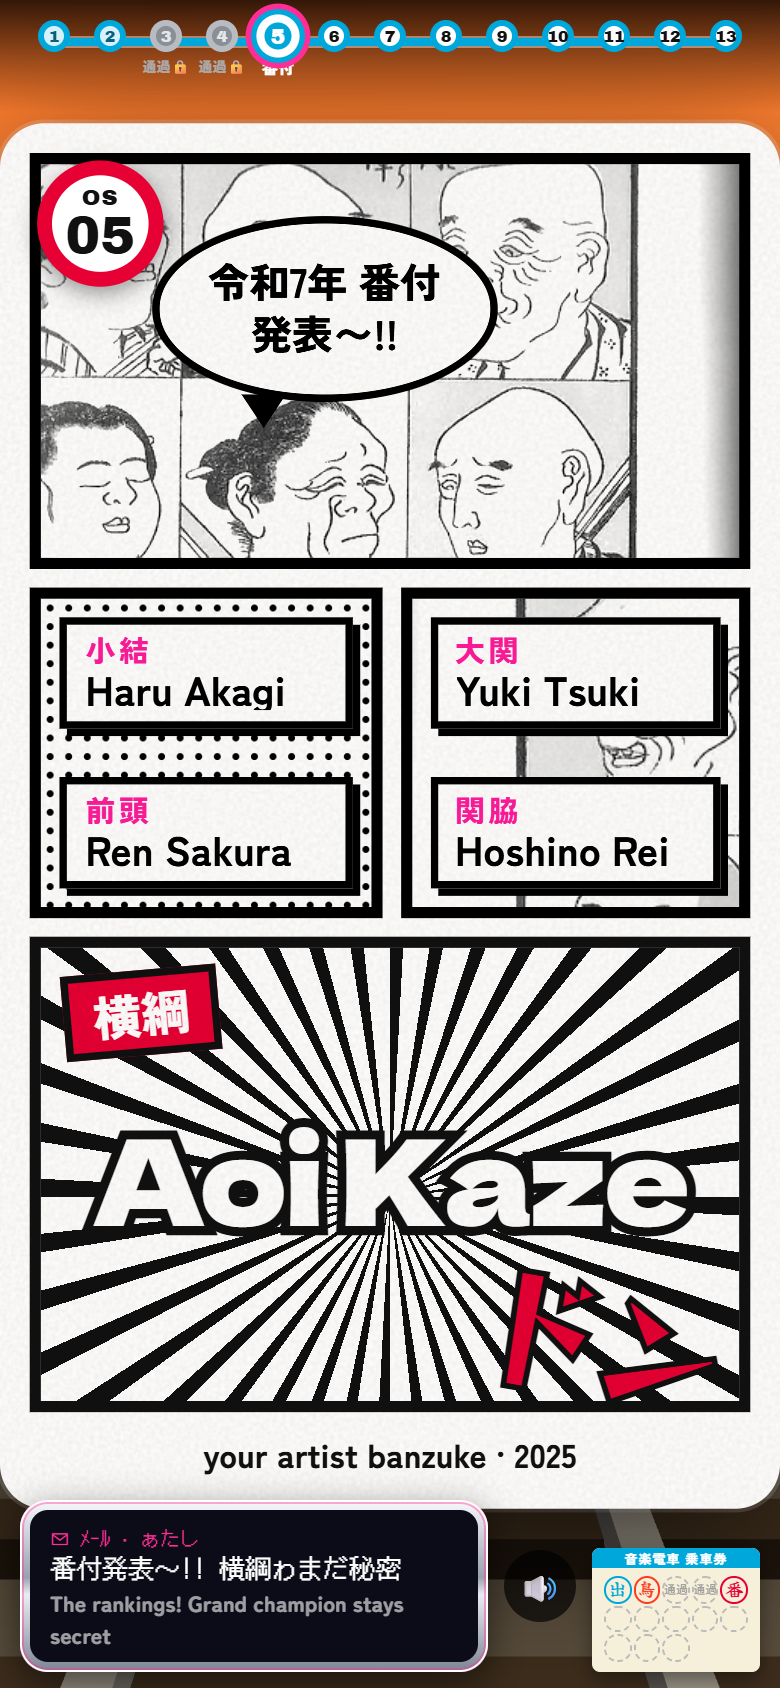
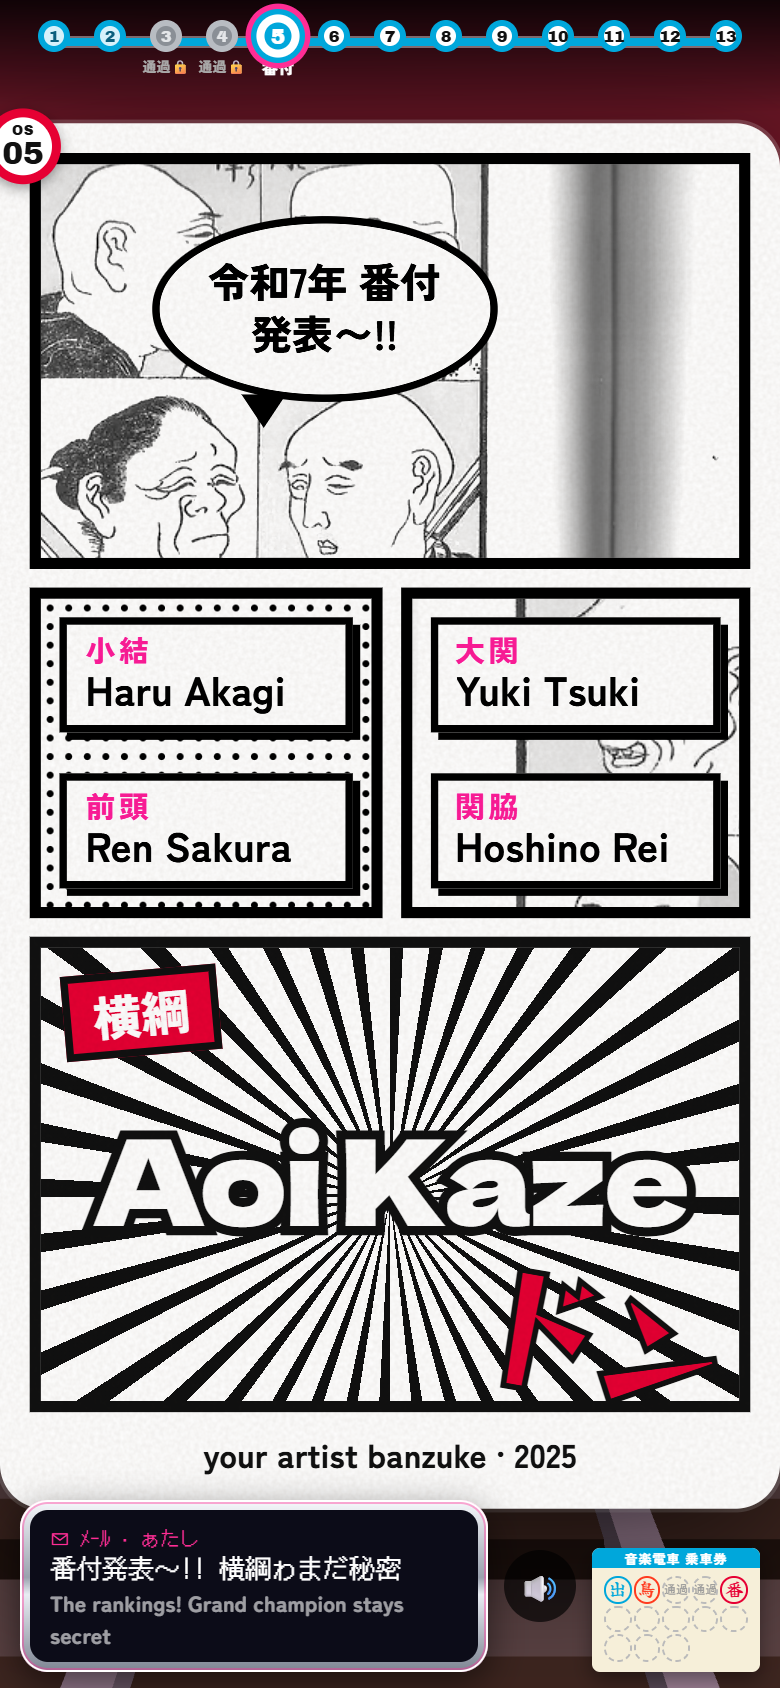
fix: polish from proof-station review
- dock the station sign with GSAP (inline transforms beat the CSS class)
- skipping an arrival no longer fires its queued sounds as one chord
- unlock/resume the sound-accent AudioContext inside the tap (iOS)
- gacha windows stack in a column with clamps (long song names overlapped)
- sumo rank captions on one line with ellipsis (two-line names were clipped)

diff --git a/src/slides/worlds/k.css b/src/slides/worlds/k.css
@@ -1,19 +1,21 @@
 /* World K: JRPG pixel (art spec §5, mockup K). Stepped bands, never a smooth gradient. */
-.gac { background: #1b1340; color: #fff; font-family: 'DotGothic16', monospace; padding: 0; image-rendering: pixelated; }
+.gac { background: #1b1340; color: #fff; font-family: 'DotGothic16', monospace; padding: 0 10px 30px; image-rendering: pixelated;
+  justify-content: flex-end; gap: 12px; }
 .gac .k-sky { position: absolute; left: 0; right: 0; top: 0; height: 168px; background: linear-gradient(180deg, #2b1a6b 0 25%, #5b2a8a 25% 45%, #b4447e 45% 62%, #ff8a5b 62% 78%, #ffd36b 78%); }
 .gac .k-sun { position: absolute; left: 118px; top: 74px; width: 44px; height: 44px; background: #fff3b0;
   clip-path: polygon(30% 0, 70% 0, 70% 10%, 85% 10%, 85% 20%, 92% 20%, 92% 30%, 100% 30%, 100% 70%, 92% 70%, 92% 80%, 85% 80%, 85% 90%, 70% 90%, 70% 100%, 30% 100%, 30% 90%, 15% 90%, 15% 80%, 8% 80%, 8% 70%, 0 70%, 0 30%, 8% 30%, 8% 20%, 15% 20%, 15% 10%, 30% 10%); }
 .gac .k-mt { position: absolute; left: 0; right: 0; top: 118px; height: 52px; background: #120c30;
   clip-path: polygon(0 100%, 0 60%, 8% 60%, 8% 44%, 16% 44%, 16% 56%, 26% 56%, 26% 24%, 36% 24%, 36% 48%, 48% 48%, 48% 32%, 58% 32%, 58% 60%, 70% 60%, 70% 36%, 82% 36%, 82% 52%, 92% 52%, 92% 44%, 100% 44%, 100% 100%); }
 .gac .lv { position: absolute; right: 10px; top: 14px; font: 11px/1 'DotGothic16', monospace; color: #ffe36b; text-shadow: 2px 2px 0 #000; }
-.gac .k-win { position: absolute; left: 10px; right: 10px; border: 3px solid #fff; border-radius: 4px; background: #0b0a8a; box-shadow: 0 0 0 2px #0b0a8a, 4px 4px 0 2px #0006; padding: 8px 9px; }
-.gac .card { top: 150px; text-align: center; }
+.gac .k-win { position: relative; border: 3px solid #fff; border-radius: 4px; background: #0b0a8a; box-shadow: 0 0 0 2px #0b0a8a, 4px 4px 0 2px #0006; padding: 8px 9px; }
+.gac .card { text-align: center; }
 .gac .ssr { font: 9px/1 'Press Start 2P', monospace; color: #ffe36b; text-shadow: 1px 1px 0 #b4447e; }
-.gac .k-song { margin-top: 8px; font: 12px/1.45 'Press Start 2P', monospace; color: #fff; overflow-wrap: anywhere; }
+.gac .k-song { margin-top: 8px; font: 12px/1.45 'Press Start 2P', monospace; color: #fff; overflow-wrap: anywhere;
+  display: -webkit-box; -webkit-box-orient: vertical; -webkit-line-clamp: 4; overflow: hidden; }
 .gac .ar { margin-top: 4px; font-size: 12px; color: #c9d4ff; overflow-wrap: anywhere; }
 .gac .st { margin-top: 5px; color: #ffe36b; font-size: 13px; letter-spacing: 3px; }
 .gac .st i, .gac .msg i { font-style: normal; }
-.gac .msg { top: auto; bottom: 30px; font-size: 12px; line-height: 1.6; overflow-wrap: anywhere; }
+.gac .msg { font-size: 12px; line-height: 1.6; overflow-wrap: anywhere; display: -webkit-box; -webkit-box-orient: vertical; -webkit-line-clamp: 3; overflow: hidden; }
 .gac .msg .cur { color: #ff2d95; }
 .gac .lb { position: absolute; left: 0; right: 0; bottom: 12px; text-align: center; font: 6px/1 'Press Start 2P', monospace; color: #ffe36b; letter-spacing: 1px; }
 .gac .k-scan { position: absolute; inset: 0; z-index: 2; pointer-events: none; background: repeating-linear-gradient(180deg, #0000 0 2px, #0005 2px 3px); }

diff --git a/tests/story/journey-threads.test.ts b/tests/story/journey-threads.test.ts
@@ -131,12 +131,15 @@ test('reduced motion: ticket stamps land without spinning, and the story is flag
 
 test('each arrival rings the station chime; muted or reduced, sound accents are not allowed', () => {
   let canPlay = () => true;
-  const sfx = { chime: vi.fn(), don: vi.fn(), blip: vi.fn(), bell: vi.fn(), dispose: vi.fn() };
+  const sfx = { chime: vi.fn(), don: vi.fn(), blip: vi.fn(), bell: vi.fn(), dispose: vi.fn(), unlock: vi.fn() };
   const makeSfx = (o: { canPlay: () => boolean }) => ((canPlay = o.canPlay), sfx);
   const soundtrack = { play() {}, pause() {}, resume() {}, stop() {}, unlock() {}, mute() {}, muted: true, unlocked: true };
   const s = story({ startAt: 1, soundtrack, makeSfx });
-  s.next(); // finish torii's arrival
+  advance(2000); // torii's ride and sign
   expect(sfx.chime).toHaveBeenCalledTimes(1);
+  root.dispatchEvent(new MouseEvent('pointerdown', { clientX: 900, bubbles: true }));
+  root.dispatchEvent(new MouseEvent('pointerup', { clientX: 900, bubbles: true }));
+  expect(sfx.unlock).toHaveBeenCalled(); // the tap unlocks the accents too
   expect(canPlay()).toBe(false); // muted
   soundtrack.muted = false;
   expect(canPlay()).toBe(true);
@@ -147,10 +150,20 @@ test('each arrival rings the station chime; muted or reduced, sound accents are 
 });
 
 test('the sumo Yokozuna lands with a ドン', () => {
-  const sfx = { chime: vi.fn(), don: vi.fn(), blip: vi.fn(), bell: vi.fn(), dispose: vi.fn() };
+  const sfx = { chime: vi.fn(), don: vi.fn(), blip: vi.fn(), bell: vi.fn(), dispose: vi.fn(), unlock: vi.fn() };
+  const sumoSlide = () => Object.assign(document.createElement('div'), { className: 'ph', innerHTML: '<b data-beat="1">a</b><b data-beat="2" data-sfx="don">y</b>' });
+  story({ startAt: 4, makeSfx: () => sfx, slides: { ...slides, sumo: sumoSlide } });
+  expect(sfx.don).not.toHaveBeenCalled();
+  advance(3500);
+  expect(sfx.don).toHaveBeenCalledTimes(1);
+});
+
+test('tapping to skip an arrival does not fire its queued sounds as one chord', () => {
+  const sfx = { chime: vi.fn(), don: vi.fn(), blip: vi.fn(), bell: vi.fn(), dispose: vi.fn(), unlock: vi.fn() };
   const sumoSlide = () => Object.assign(document.createElement('div'), { className: 'ph', innerHTML: '<b data-beat="1">a</b><b data-beat="2" data-sfx="don">y</b>' });
   const s = story({ startAt: 4, makeSfx: () => sfx, slides: { ...slides, sumo: sumoSlide } });
+  advance(100);
+  s.next(); // skip to the end of the arrival
+  expect(sfx.chime).not.toHaveBeenCalled();
   expect(sfx.don).not.toHaveBeenCalled();
-  s.next(); // finish
-  expect(sfx.don).toHaveBeenCalledTimes(1);
 });

diff --git a/tests/audio/sfx.test.ts b/tests/audio/sfx.test.ts
@@ -3,7 +3,7 @@ import { createSfx } from '../../src/audio/sfx';
 
 /** A fake AudioContext that records what the synth builds. */
 function fakeContext() {
-  const made = { oscillators: 0, gains: [] as number[], closed: false };
+  const made = { oscillators: 0, gains: [] as number[], closed: false, resumed: 0 };
   const param = (track?: number[]) => ({
     value: 0,
     setValueAtTime(v: number) { track?.push(v); return this; },
@@ -20,6 +20,7 @@ function fakeContext() {
     createBuffer: (_c: number, n: number) => ({ getChannelData: () => new Float32Array(n) }),
     createBufferSource: () => ({ ...node(), buffer: null, start() {}, stop() {} }),
     close: () => { made.closed = true; return Promise.resolve(); },
+    resume: () => { made.resumed++; return Promise.resolve(); },
   };
   return { ctx: ctx as unknown as AudioContext, made };
 }
@@ -61,4 +62,14 @@ test('the context is made once, lazily, and closed on dispose', () => {
   expect(makeContext).toHaveBeenCalledTimes(1);
   sfx.dispose();
   expect(made.closed).toBe(true);
+});
+
+test('unlock() inside the tap creates and resumes the context (iOS only allows it in a gesture)', () => {
+  const { ctx, made } = fakeContext();
+  const makeContext = vi.fn(() => ctx);
+  createSfx({ canPlay: () => false, makeContext }).unlock();
+  expect(makeContext).not.toHaveBeenCalled();
+  createSfx({ canPlay: () => true, makeContext }).unlock();
+  expect(makeContext).toHaveBeenCalledTimes(1);
+  expect(made.resumed).toBe(1);
 });

diff --git a/src/story/player.ts b/src/story/player.ts
@@ -100,8 +100,11 @@ export function createStory(
     if (!paused && !STATIONS[index].waitForInput) holdTimer = setTimeout(() => step(1), holdMs);
   };
 
+  let skipping = false;
   const finish = () => {
+    skipping = true; // jumping to the end fires every queued call: keep the sounds out of it
     master?.progress(1);
+    skipping = false;
     master = undefined;
   };
 
@@ -133,7 +136,7 @@ export function createStory(
     }
 
     const tl = gsap.timeline({ paused: true, onComplete: armHold });
-    const at = (t: number, fn: () => void) => tl.call(fn, undefined, t);
+    const at = (t: number, fn: () => void) => tl.call(() => void (skipping || fn()), undefined, t);
     const selfHooked = s.transitionIn === 'phone' || s.transitionIn === 'tease';
     if (!selfHooked) tl.add(guide.say(s.id).paused(false), 0);
     else guide.clear();
@@ -189,6 +192,7 @@ export function createStory(
   };
   const onUp = (e: MouseEvent) => {
     opts.soundtrack?.unlock(); // any tap is a gesture the browser accepts for sound
+    sfx.unlock();
     if (downX === undefined) return;
     clearTimeout(pressTimer);
     const x = downX;
@@ -207,6 +211,7 @@ export function createStory(
   };
   const onKey = (e: KeyboardEvent) => {
     opts.soundtrack?.unlock();
+    sfx.unlock();
     if (e.key === 'ArrowRight') nav(1);
     else if (e.key === 'ArrowLeft') nav(-1);
     else if (e.key === ' ') (paused ? api.resume() : api.pause());

diff --git a/src/story/story.css b/src/story/story.css
@@ -208,7 +208,6 @@
   display: flex; align-items: center; gap: 8px; padding: 6px 8px;
   background: #fff; color: #111; border-radius: 6px; border-bottom: 4px solid var(--sign-accent, var(--line));
   box-shadow: 0 3px 0 #0003; transform-origin: top left; pointer-events: none;
-  transition: translate .25s ease, scale .25s ease;
 }
 .sign .os {
   flex: none; width: 34px; height: 34px; border-radius: 50%; box-sizing: border-box;
@@ -221,9 +220,8 @@
 .sign .nm b { font: 900 16px/1.05 var(--face-text); white-space: nowrap; overflow: hidden; text-overflow: ellipsis; }
 .sign .nm i { font: 9px/1.2 'Archivo Black', sans-serif; font-style: normal; text-transform: uppercase; letter-spacing: .04em; white-space: nowrap; overflow: hidden; text-overflow: ellipsis; }
 .sign.long .nm i { font-size: 7px; }
-.sign.docked { right: auto; padding: 0; background: none; border-bottom-color: transparent; box-shadow: none; translate: -14px -14px; scale: .6; }
+.sign.docked { right: auto; padding: 0; background: none; border-bottom-color: transparent; box-shadow: none; }
 .sign.docked .nm { display: none; }
 .sign.docked .os { box-shadow: 0 2px 6px #0006; }
-.reduced .sign { transition: none; }
 /* A slide that prints its own station number circle is the docked sign: don't show two. */
 .story:has(.stage .os) .sign.docked { visibility: hidden; }

diff --git a/src/story/sign.ts b/src/story/sign.ts
@@ -19,15 +19,15 @@ export function createSign(reduced = false) {
       el.classList.toggle('long', s.nameEn.length > 14);
       const tl = gsap.timeline({ paused: true });
       tl.call(() => el.classList.remove('docked'), undefined, 0);
-      if (reduced) return tl.set(el, { y: 0, opacity: 1 }, 0);
-      return tl.fromTo(el, { y: -40, opacity: 0 }, { y: 0, opacity: 1, duration: 0.45, ease: 'power3.out' }, 0);
+      if (reduced) return tl.set(el, { x: 0, y: 0, scale: 1, opacity: 1 }, 0);
+      return tl.fromTo(el, { x: 0, y: -40, scale: 1, opacity: 0 }, { y: 0, opacity: 1, duration: 0.45, ease: 'power3.out' }, 0);
     },
     dock(): gsap.core.Timeline {
       const tl = gsap.timeline({ paused: true });
       tl.call(() => el.classList.add('docked'), undefined, 0);
-      // The class carries the docked layout; its CSS transition does the motion, so the timeline only holds the time.
-      if (!reduced) tl.to({}, { duration: 0.25 }, 0);
-      return tl;
+      // GSAP owns the sign's transform (it writes inline translate/scale), so the dock motion is a GSAP tween too.
+      const docked = { x: -14, y: -14, scale: 0.6 };
+      return reduced ? tl.set(el, docked, 0) : tl.to(el, { ...docked, duration: 0.25, ease: 'power2.out' }, 0);
     },
   };
 }

diff --git a/src/slides/worlds/d.css b/src/slides/worlds/d.css
@@ -11,7 +11,7 @@
 .sumo .bub::after { content: ''; position: absolute; left: 22px; bottom: -9px; border: 6px solid transparent; border-top: 9px solid #111; border-bottom: 0; }
 .sumo .cap { background: #fff; border: 2px solid #111; padding: 3px 5px; box-shadow: 2px 2px 0 #111; }
 .sumo .cap .rk { display: block; font: 900 8px/1 var(--face-text); color: #ff2d95; letter-spacing: 1px; }
-.sumo .cap .an { display: block; font: 900 11px/1.1 var(--face-text); overflow-wrap: anywhere; display: -webkit-box; -webkit-line-clamp: 2; -webkit-box-orient: vertical; overflow: hidden; }
+.sumo .cap .an { display: block; font: 900 11px/1.2 var(--face-text); white-space: nowrap; overflow: hidden; text-overflow: ellipsis; }
 .sumo .splash { grid-area: y; display: flex; align-items: center; justify-content: center; padding: 10px 12px;
   background: repeating-conic-gradient(from 0deg at 50% 55%, #111 0 3deg, #fff 3deg 9deg); }
 .sumo .splash .nm { position: relative; z-index: 1; font: 32px/.95 var(--face-num); color: #fff; -webkit-text-stroke: 5px #111; paint-order: stroke fill; letter-spacing: -1px; text-align: center; }

diff --git a/tests/story/sign.test.ts b/tests/story/sign.test.ts
@@ -1,4 +1,5 @@
 import { expect, test } from 'vitest';
+import { gsap } from 'gsap';
 import { STATIONS } from '../../src/journey/stations';
 import { createSign } from '../../src/story/sign';
 
@@ -24,4 +25,15 @@ test('docking takes 0.25 s; reduced motion is instant', () => {
   const r = createSign(true);
   expect(r.show(STATIONS[0]).duration()).toBe(0);
   expect(r.dock().duration()).toBe(0);
+});
+
+test('docking moves the sign with GSAP (inline styles would beat a CSS class), and show undocks it', () => {
+  const sign = createSign();
+  sign.show(STATIONS[4]).progress(1);
+  sign.dock().progress(1);
+  expect(gsap.getProperty(sign.el, 'scale')).toBeCloseTo(0.6);
+  expect(gsap.getProperty(sign.el, 'x')).toBe(-14);
+  sign.show(STATIONS[5]).progress(1);
+  expect(gsap.getProperty(sign.el, 'scale')).toBe(1);
+  expect(gsap.getProperty(sign.el, 'x')).toBe(0);
 });

diff --git a/src/audio/sfx.ts b/src/audio/sfx.ts
@@ -1,6 +1,6 @@
 const PEAK = 0.125; // −18 dB under the music (art spec §8)
 
-export type Sfx = { chime(): void; don(): void; blip(): void; bell(): void; dispose(): void };
+export type Sfx = { unlock(): void; chime(): void; don(): void; blip(): void; bell(): void; dispose(): void };
 
 /**
  * Sound accents synthesised with Web Audio: no files, no licences. Nothing is created until a sound is allowed
@@ -39,6 +39,10 @@ export function createSfx(opts: { canPlay: () => boolean; makeContext?: () => Au
   };
 
   return {
+    /** Call inside a tap: iOS only lets an AudioContext start (or resume) during a user gesture. */
+    unlock() {
+      ready()?.resume().catch(() => {});
+    },
     chime() {
       const c = ready();
       if (!c) return;
